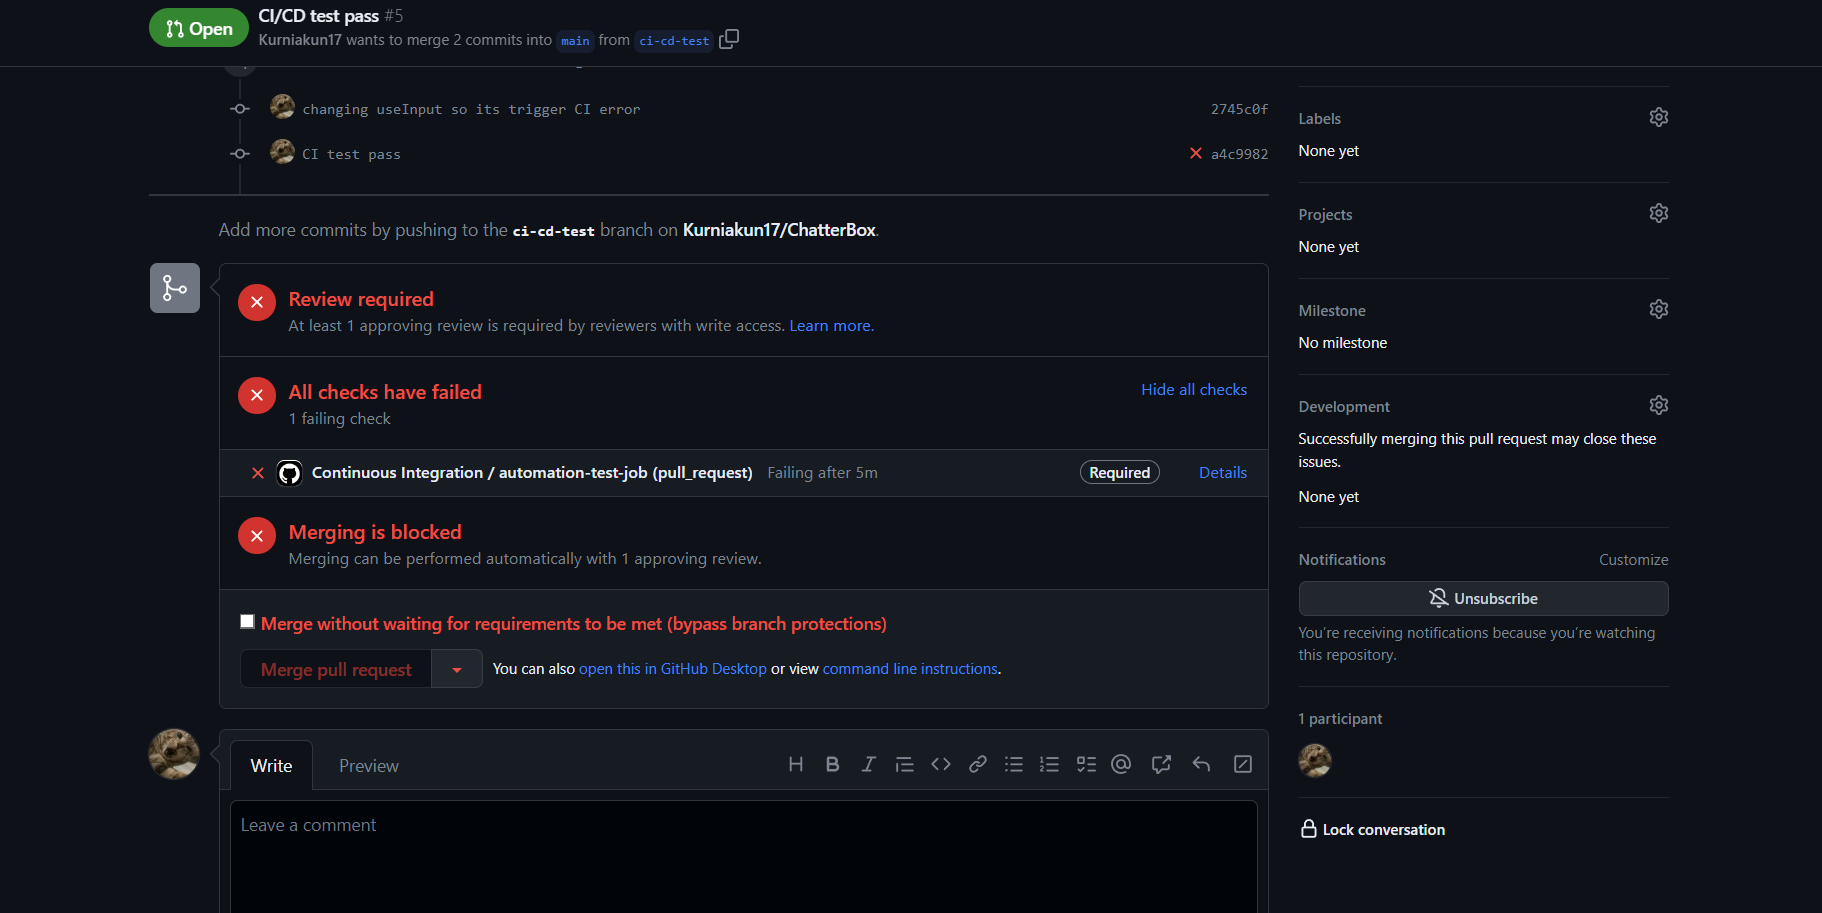
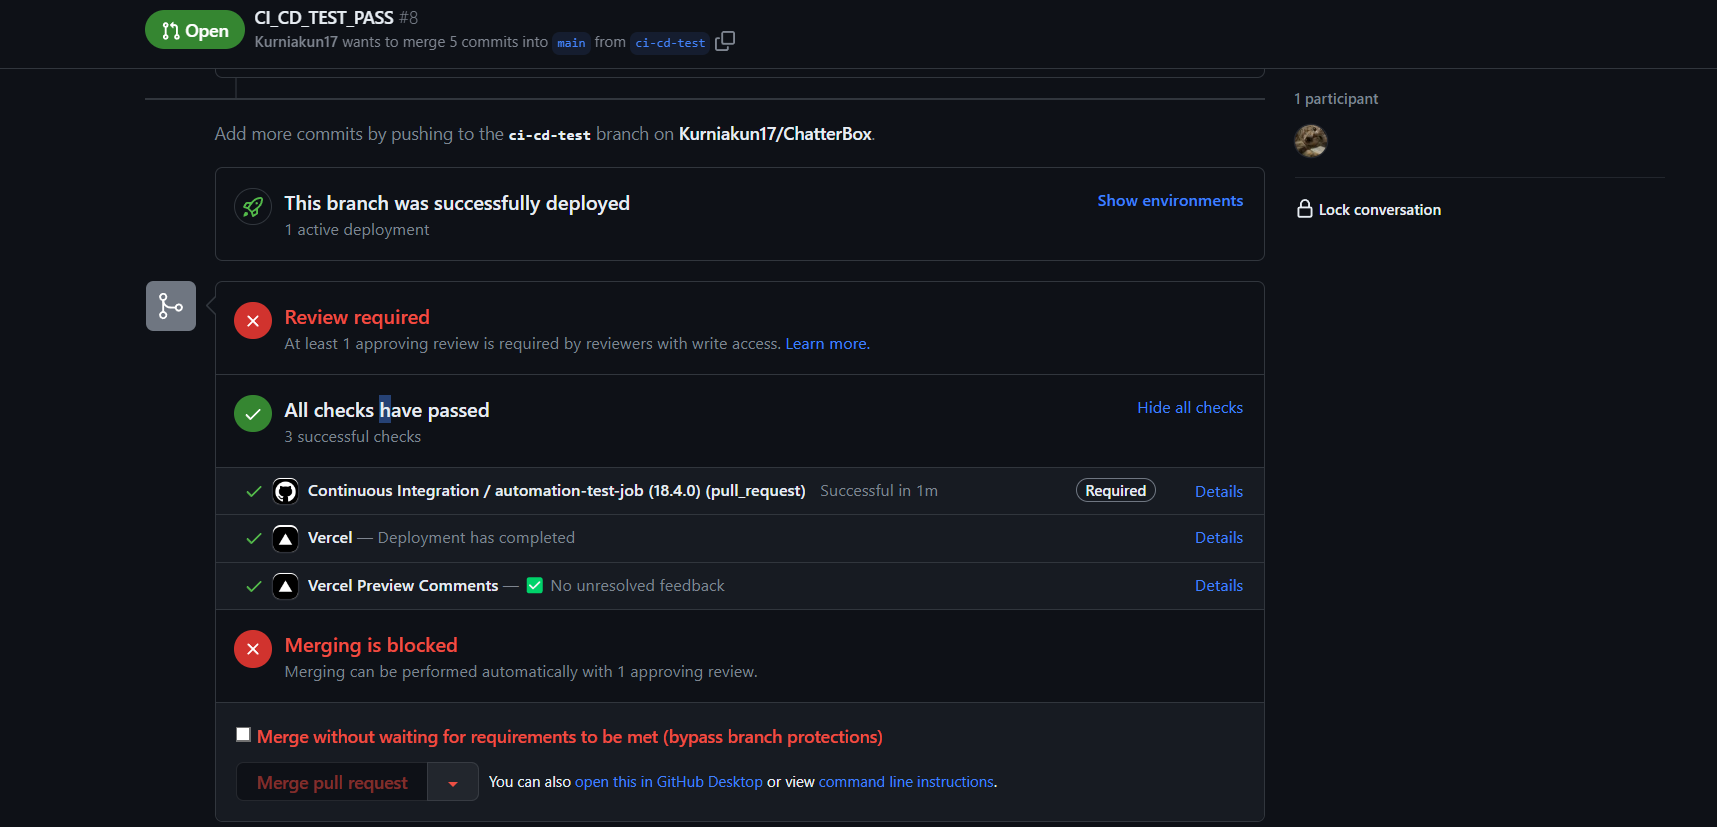
fixing use input

diff --git a/src/hooks/useInput.jsx b/src/hooks/useInput.jsx
@@ -11,5 +11,5 @@ export const useInput = (initialValue = '') => {
     setValue(target.innerHTML);
   };
 
-  return [value];
+  return [value, onChangeHandler, onDivChangeHandler];
 };
